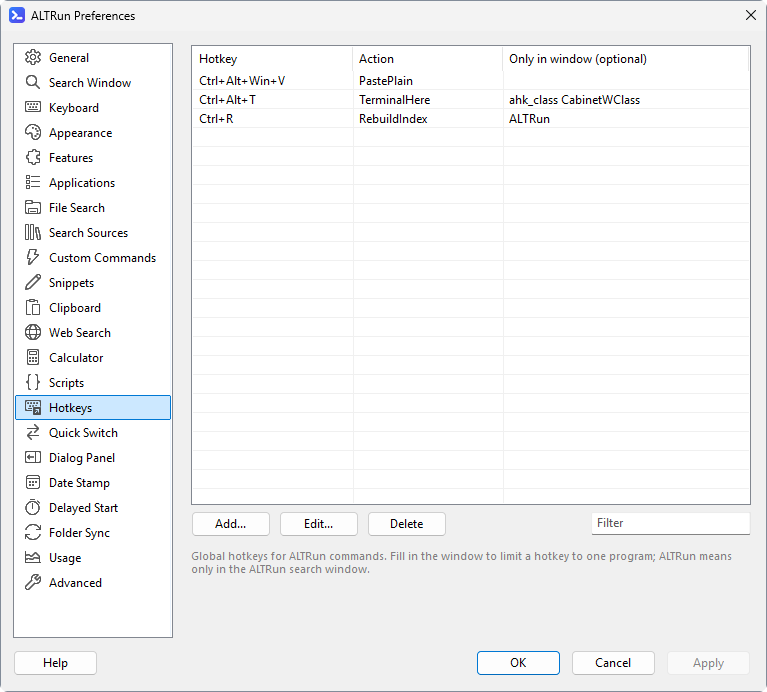
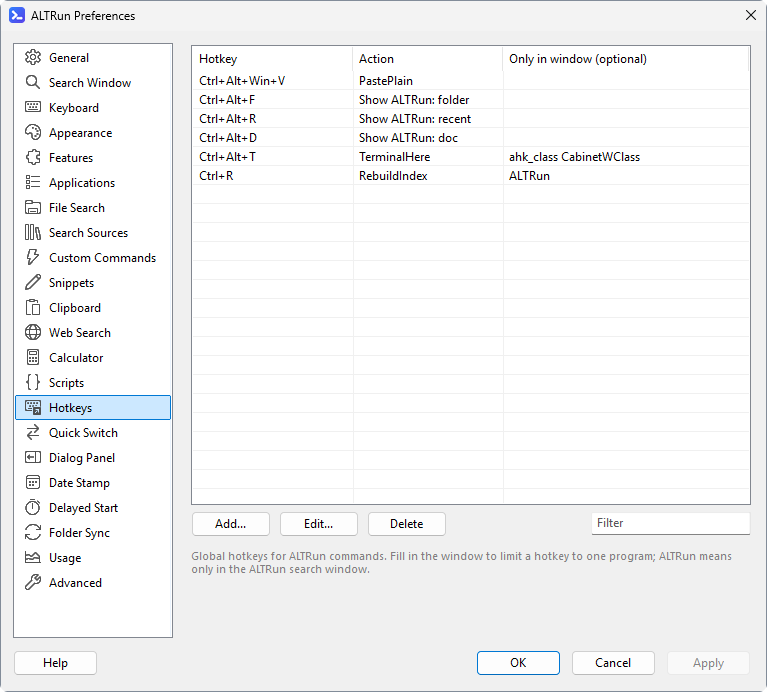
Open ALTRun With a Search Text From a Custom Hotkey (Test Build 2026.11.09.15) (#429)

diff --git a/docs/wiki/Hotkeys.md b/docs/wiki/Hotkeys.md
@@ -7,15 +7,17 @@ Preferences → Hotkeys: assign a [system command](System-Commands#system-comman
 | Field | Example | Description |
 |---|---|---|
 | Hotkey (Key) | `Ctrl+Alt+T` | Click the box and press the keys (see [Setting hotkeys](#setting-hotkeys) below); mouse hotkeys: click the middle or a side button in the box. With "Keep the key's original function" ticked, the key still does what it normally does (a leading `~` in the settings file) |
-| Action | `TerminalHere` | A system command Id, or `ToggleWindow` (show / hide ALTRun) |
+| Action | `TerminalHere` | A system command Id, `ToggleWindow` (show / hide ALTRun), or `Show` (show ALTRun, optionally with a search prefix) |
+| Search prefix (Prefix) | `folder ` | Only for `Show`: the search box starts with this prefix, so one hotkey goes straight to one scope, for example `folder ` (folders only), `recent ` (recent files) or `doc ` (documents only; see [Usage](Usage) for the prefixes). A space at the end counts. Empty = an empty search box. The list shows it after the action, like `Show ALTRun: folder` |
 | Only in window (WinTitle) | `ahk_class CabinetWClass` | Empty = everywhere; otherwise only in matching windows; `ALTRun` = only in ALTRun's search window |
 
-New installs come with three examples, one for each kind:
+New installs come with six examples:
 - `Ctrl+Alt+Win+V` pastes the clipboard as plain text, everywhere (the same key as PowerToys "Paste as plain text")
+- `Ctrl+Alt+F`, `Ctrl+Alt+R` and `Ctrl+Alt+D` open the search window with `folder `, `recent ` or `doc ` already typed (action `Show`): search folders only, recent files, or documents only
 - `Ctrl+Alt+T` in File Explorer (`ahk_class CabinetWClass`) opens a terminal in the current folder
 - `Ctrl+R` in the ALTRun search window (`ALTRun`) rebuilds the index
 
-Delete or change them as you like; existing settings keep their own list. `F1`–`F4` in the search window are built in, see [Shortcuts](Usage#shortcuts).
+Delete or change them as you like; existing settings keep their own list. To go straight to another scope, add a `Show` hotkey of your own with the prefix you would type, for example `pic ` for pictures. `F1`–`F4` in the search window are built in, see [Shortcuts](Usage#shortcuts).
 
 ![Preferences → Hotkeys](https://raw.githubusercontent.com/zhugecaomao/ALTRun/main/docs/images/screenshots/prefs-hotkeys.png)
 

diff --git a/docs/wiki/Hotkeys-zh.md b/docs/wiki/Hotkeys-zh.md
@@ -7,15 +7,17 @@
 | 字段 | 例子 | 说明 |
 |---|---|---|
 | 热键 (Key) | `Ctrl+Alt+T` | 点一下框, 按下组合键 (见下文 [设置热键](#设置热键)); 鼠标热键: 在框里点鼠标中键或侧键。勾选 "保留按键原来的功能" 时, 按键原来的作用照常 (设置文件里是开头的 `~`) |
-| 操作 (Action) | `TerminalHere` | 系统命令的 Id, 或 `ToggleWindow` (显示 / 隐藏 ALTRun) |
+| 操作 (Action) | `TerminalHere` | 系统命令的 Id, `ToggleWindow` (显示 / 隐藏 ALTRun), 或 `Show` (显示 ALTRun, 可以带搜索功能前缀) |
+| 搜索功能前缀 (Prefix) | `folder ` | 只用于 `Show`: 搜索框里预先填入这个前缀, 一个热键直达一个范围, 例如 `folder ` (只搜文件夹)、`recent ` (最近的文件)、`doc ` (只搜文档; 前缀见 [使用方法](Usage-zh))。结尾的空格有效。留空 = 空的搜索框。列表里显示在操作后面, 如 `Show ALTRun: folder` |
 | 窗口 (WinTitle) | `ahk_class CabinetWClass` | 留空 = 全局; 否则只在匹配的窗口里生效; `ALTRun` = 只在 ALTRun 的搜索窗口里 |
 
-新安装时带三个示例, 每种用法一个:
+新安装时带六个示例:
 - `Ctrl+Alt+Win+V`: 在任何地方把剪贴板粘贴为纯文本 (和 PowerToys 的 "粘贴为纯文本" 同一个键)
+- `Ctrl+Alt+F`、`Ctrl+Alt+R`、`Ctrl+Alt+D`: 打开搜索窗口, 搜索框里已经填好 `folder `、`recent ` 或 `doc ` (操作 `Show`): 只搜文件夹、看最近的文件、只搜文档
 - `Ctrl+Alt+T`: 在资源管理器 (`ahk_class CabinetWClass`) 里, 在当前文件夹打开终端
 - `Ctrl+R`: 在 ALTRun 搜索窗口 (`ALTRun`) 里重建索引
 
-可以随意删除或修改; 已有的设置保留自己的列表。搜索窗口里的 `F1` ~ `F4` 是内置的, 见 [使用方法](Usage-zh#快捷键)。
+可以随意删除或修改; 已有的设置保留自己的列表。想直达别的范围, 自己加一个 `Show` 热键, 搜索功能前缀填平时会输入的前缀, 例如 `pic ` (图片)。搜索窗口里的 `F1` ~ `F4` 是内置的, 见 [使用方法](Usage-zh#快捷键)。
 
 ![偏好设置 → 自定义热键](https://raw.githubusercontent.com/zhugecaomao/ALTRun/main/docs/images/screenshots/prefs-hotkeys.png)
 

diff --git a/CHANGELOG.md b/CHANGELOG.md
@@ -5,6 +5,15 @@
 
 ## [未发布]
 
+## [2026.11.09.15]
+
+测试版。
+
+Test build.
+
+### 新增
+- 自定义热键 (偏好设置 → 热键) 的 "显示 ALTRun" (`Show`) 动作多了一个 "搜索功能前缀": 按热键打开搜索窗口时, 搜索框里已经填好这个前缀。例如 `Ctrl+Alt+F` 填 `folder ` 直接搜文件夹, 填 `recent ` 直接看最近的文件, 填 `doc ` 只搜文档。这是设置里可选的新键 `Prefix`, 老设置不受影响。新安装带三个示例: `Ctrl+Alt+F` (`folder `)、`Ctrl+Alt+R` (`recent `)、`Ctrl+Alt+D` (`doc `) (Refs #427)
+
 ## [2026.11.09.14]
 
 测试版。
@@ -1243,7 +1252,8 @@ Smoother typing, easier to get started, and a few useful new features.
 ## 更早的版本
 见 [GitHub Releases](https://github.com/zhugecaomao/ALTRun/releases)。
 
-[未发布]: https://github.com/zhugecaomao/ALTRun/compare/2026.11.09.14...HEAD
+[未发布]: https://github.com/zhugecaomao/ALTRun/compare/2026.11.09.15...HEAD
+[2026.11.09.15]: https://github.com/zhugecaomao/ALTRun/compare/2026.11.09.14...2026.11.09.15
 [2026.11.09.14]: https://github.com/zhugecaomao/ALTRun/compare/2026.11.09.13...2026.11.09.14
 [2026.11.09.13]: https://github.com/zhugecaomao/ALTRun/compare/2026.11.09.12...2026.11.09.13
 [2026.11.09.12]: https://github.com/zhugecaomao/ALTRun/compare/2026.11.09.11...2026.11.09.12

diff --git a/docs/wiki/Configuration.md b/docs/wiki/Configuration.md
@@ -231,6 +231,7 @@ See [Extensions](Extensions).
 ```jsonc
 "Hotkeys": [
   { "Key": "^!#v", "Action": "PastePlain", "WinTitle": "" },
+  { "Key": "^!f", "Action": "Show", "Prefix": "folder ", "WinTitle": "" },
   { "Key": "^!t", "Action": "TerminalHere", "WinTitle": "ahk_class CabinetWClass" },
   { "Key": "^r", "Action": "RebuildIndex", "WinTitle": "ALTRun" }
 ],

diff --git a/docs/wiki/Configuration-zh.md b/docs/wiki/Configuration-zh.md
@@ -231,6 +231,7 @@
 ```jsonc
 "Hotkeys": [
   { "Key": "^!#v", "Action": "PastePlain", "WinTitle": "" },
+  { "Key": "^!f", "Action": "Show", "Prefix": "folder ", "WinTitle": "" },
   { "Key": "^!t", "Action": "TerminalHere", "WinTitle": "ahk_class CabinetWClass" },
   { "Key": "^r", "Action": "RebuildIndex", "WinTitle": "ALTRun" }
 ],
